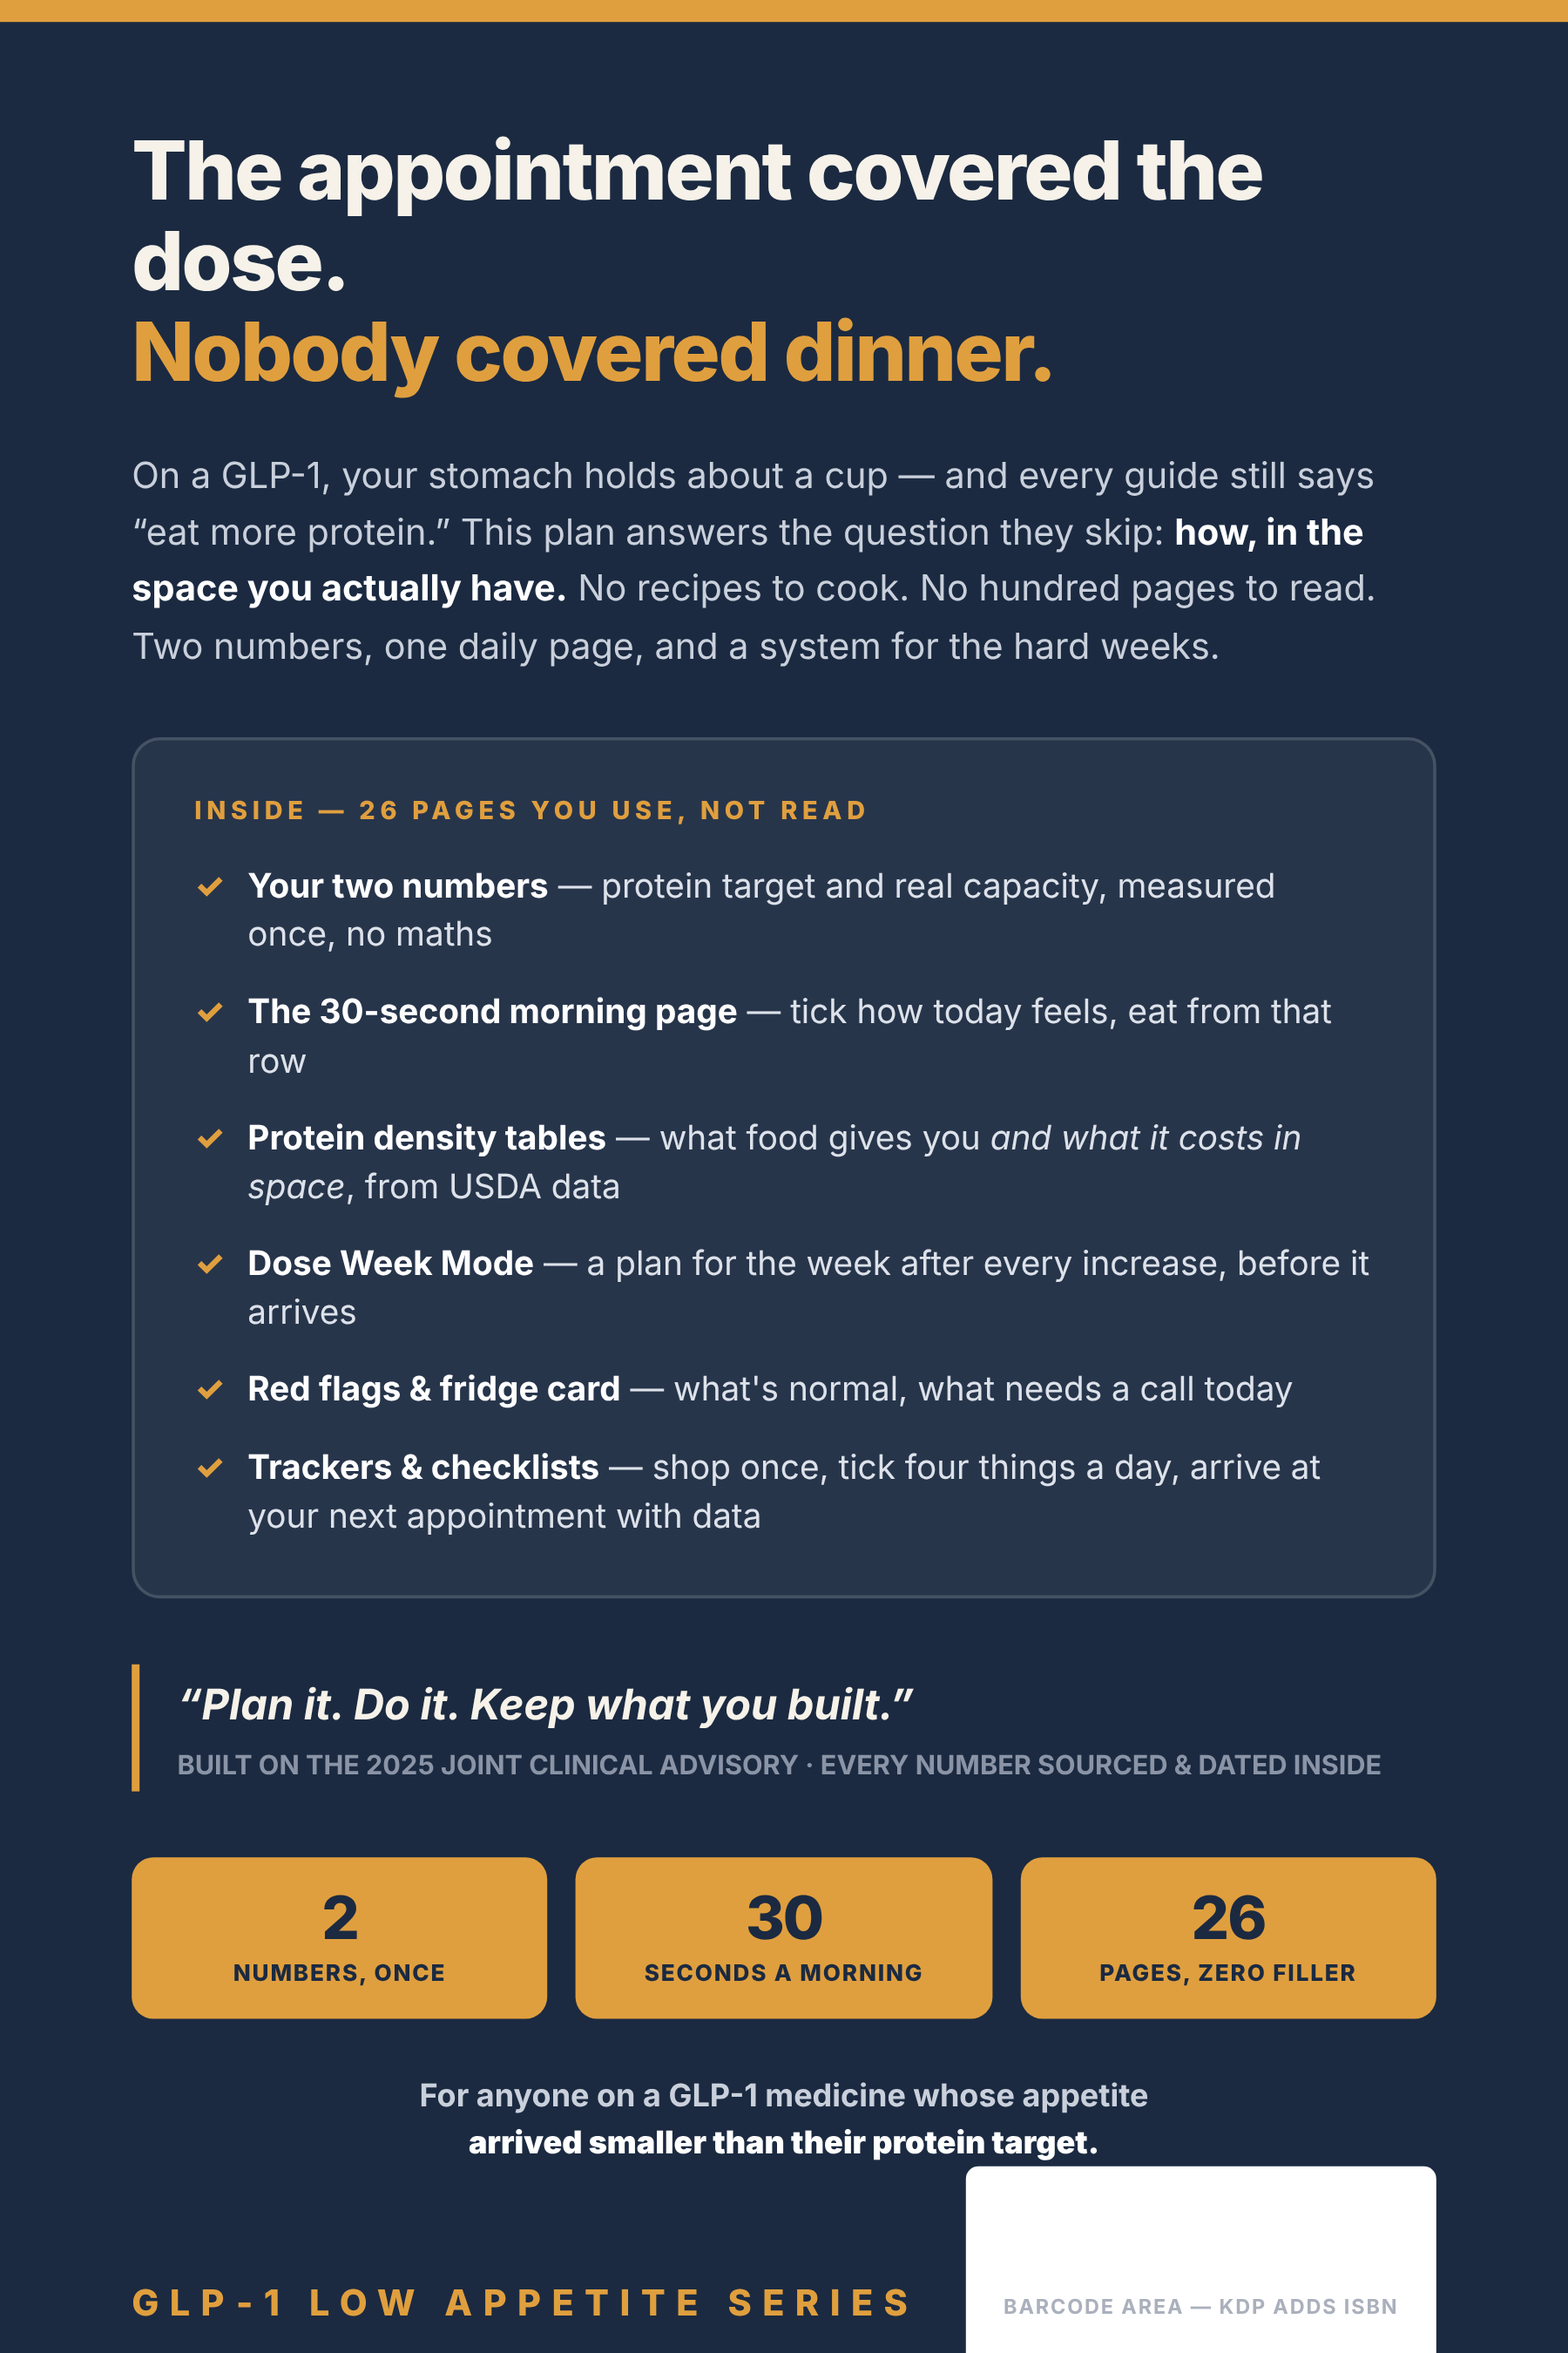
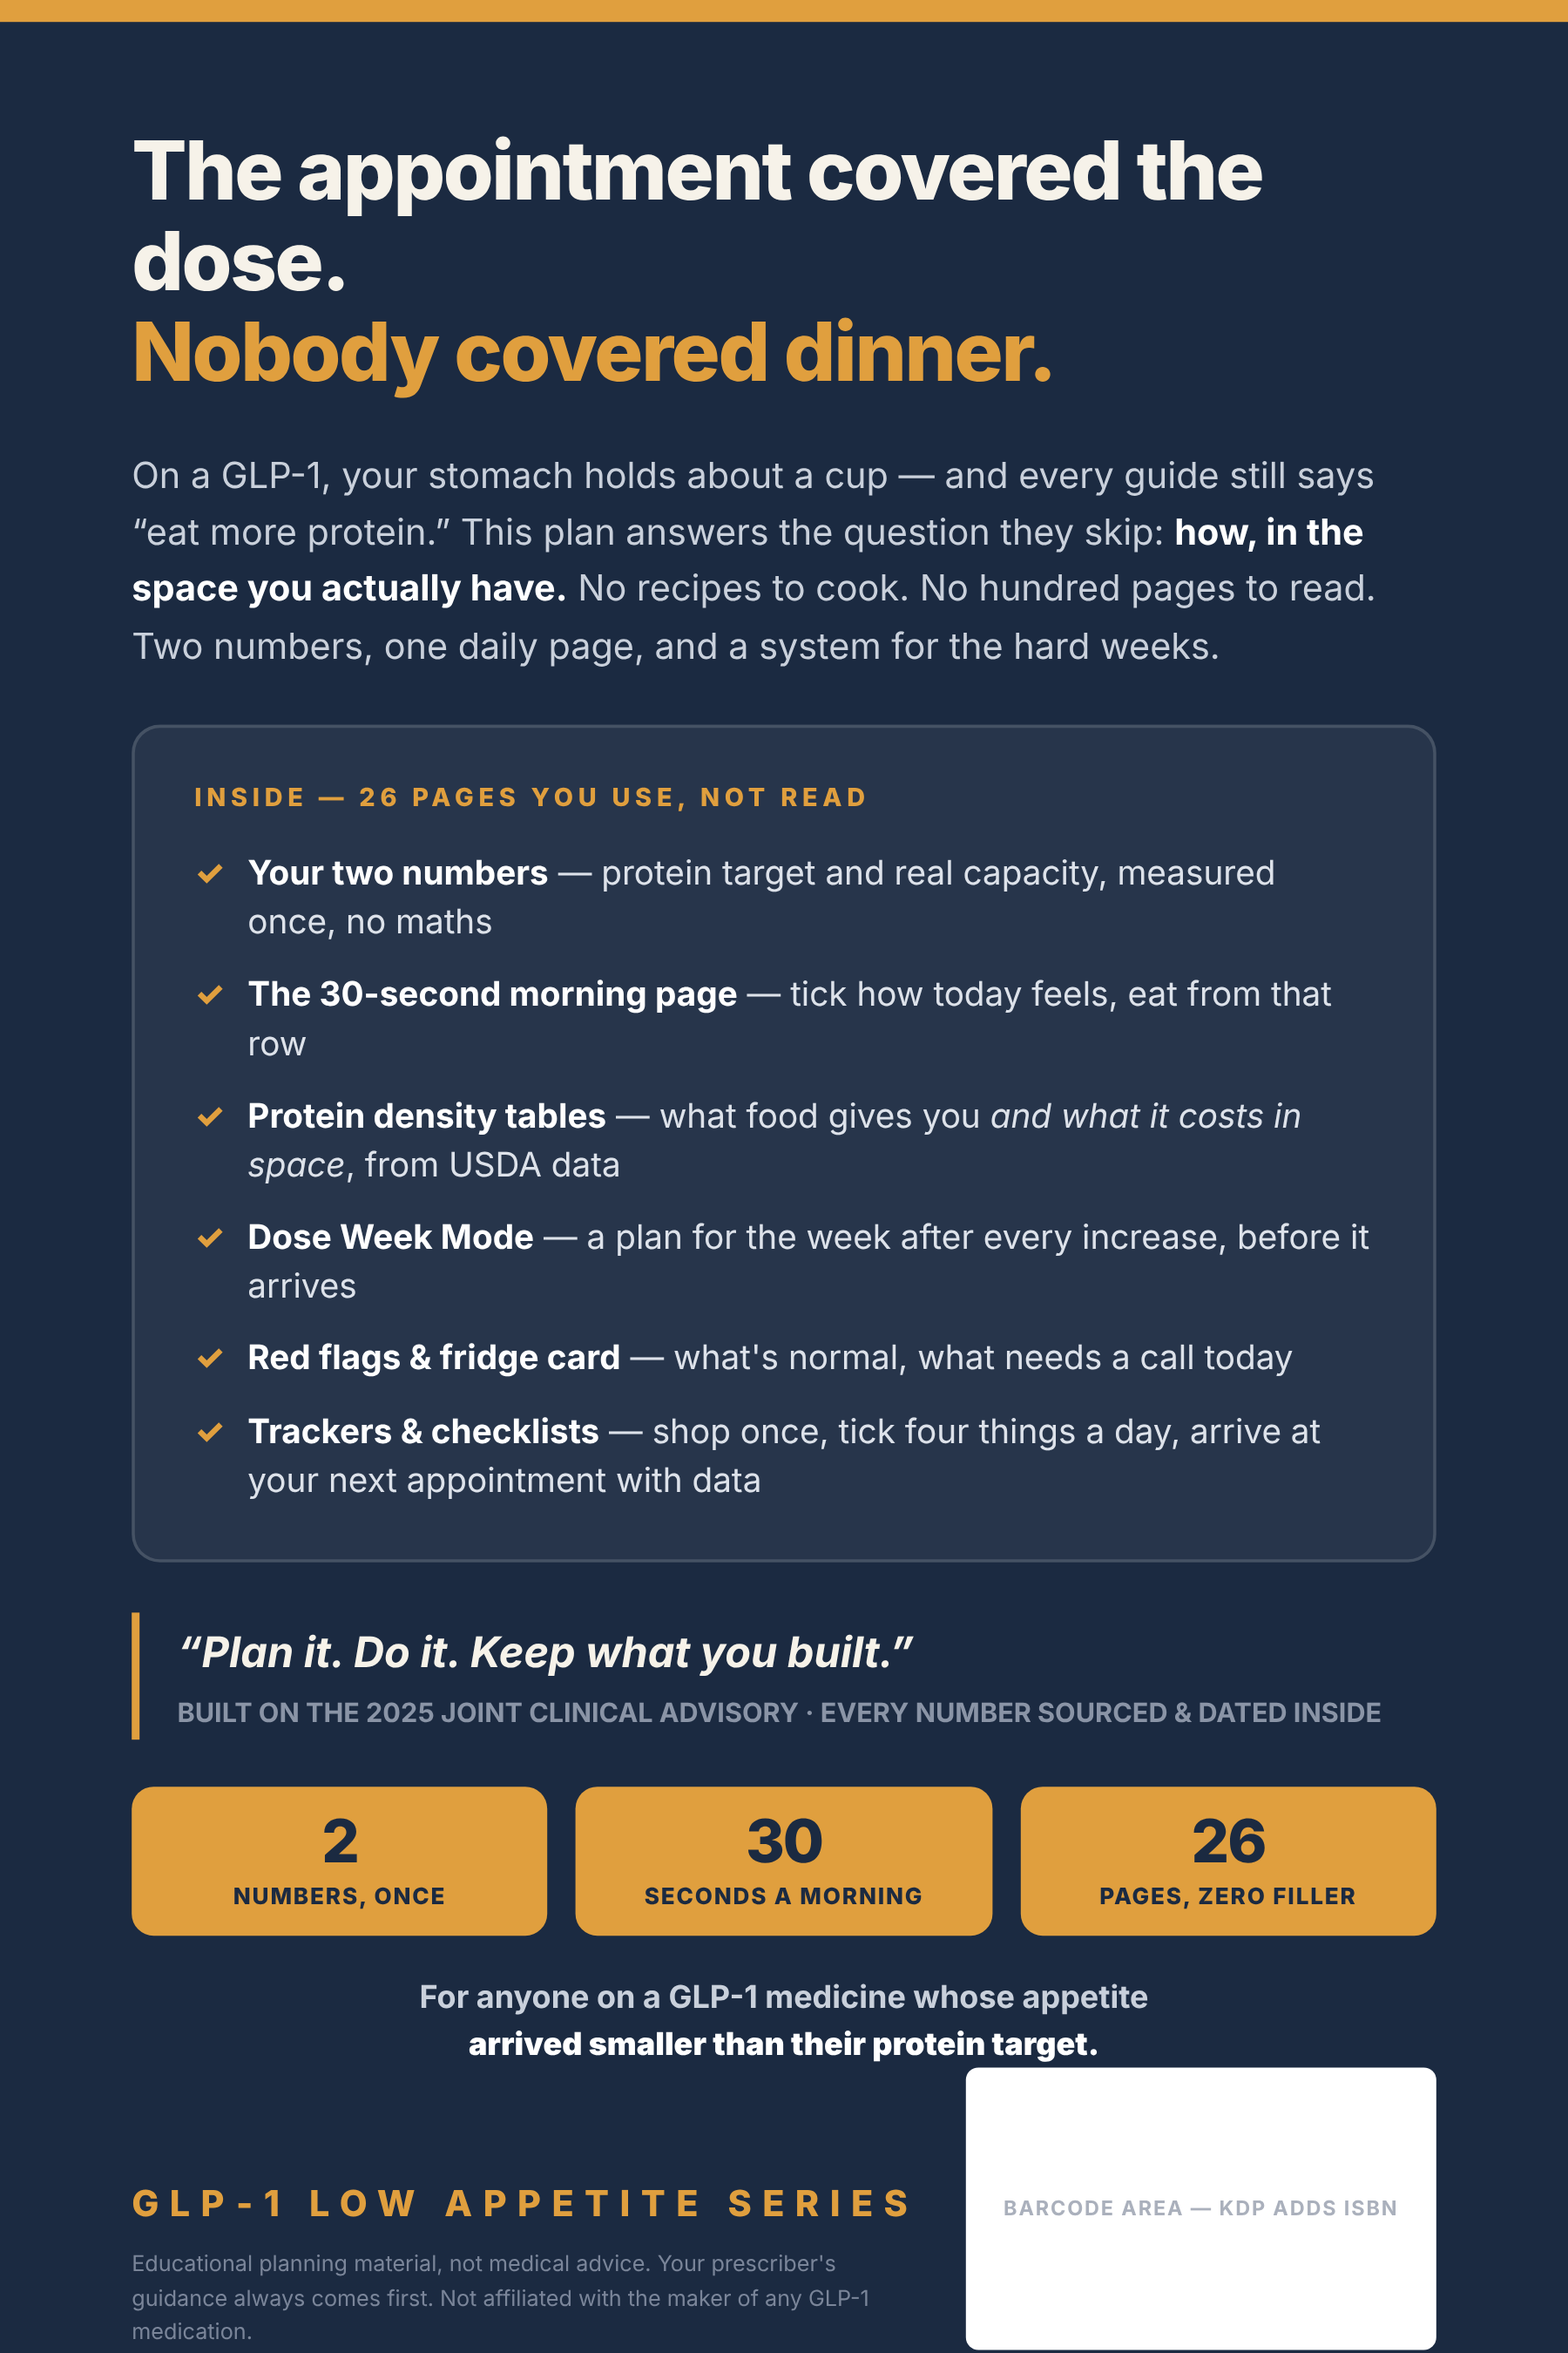
Fix back cover overflow
Claude-Session: https://claude.ai/code/session_015udXMA1KmBFHqrMq4qJ4ZP

diff --git a/product/listing/cover-back.html b/product/listing/cover-back.html
@@ -13,23 +13,23 @@
   .lede{ font-size:23px; line-height:1.58; color:#C9D0DB; margin-top:30px; }
   .lede b{ color:#fff; font-weight:700; }
 
-  .box{ margin-top:40px; background:rgba(255,255,255,.055); border:2px solid rgba(255,255,255,.14);
+  .box{ margin-top:32px; background:rgba(255,255,255,.055); border:2px solid rgba(255,255,255,.14);
         border-radius:18px; padding:34px 38px; }
   .bt{ font-size:16px; font-weight:800; letter-spacing:.2em; color:var(--amber); margin-bottom:24px; }
   .it{ display:flex; gap:15px; font-size:21.5px; line-height:1.45; color:#DDE2EA; }
-  .it + .it{ margin-top:18px; }
+  .it + .it{ margin-top:15px; }
   .mk{ color:var(--amber); font-weight:800; flex:none; }
   .it b{ color:#fff; font-weight:700; }
 
-  .quote{ margin-top:42px; border-left:5px solid var(--amber); padding:6px 0 6px 24px; }
+  .quote{ margin-top:32px; border-left:5px solid var(--amber); padding:6px 0 6px 24px; }
   .q1{ font-size:27px; font-weight:700; font-style:italic; line-height:1.45; color:var(--cream); }
   .q2{ font-size:17px; font-weight:700; color:#8A94A6; margin-top:10px; font-style:normal; }
 
-    .stats{ margin-top:42px; display:flex; gap:18px; }
-  .st{ flex:1; background:var(--amber); color:var(--navy); border-radius:14px; padding:20px 14px; text-align:center; }
+    .stats{ margin-top:30px; display:flex; gap:18px; }
+  .st{ flex:1; background:var(--amber); color:var(--navy); border-radius:14px; padding:16px 14px; text-align:center; }
   .st .n{ font-size:38px; font-weight:800; letter-spacing:-.03em; line-height:1; }
   .st .l{ font-size:14.5px; font-weight:800; letter-spacing:.07em; margin-top:8px; }
-  .who{ margin-top:34px; text-align:center; font-size:20px; font-weight:700; color:#C9D0DB; line-height:1.5; }
+  .who{ margin-top:24px; text-align:center; font-size:20px; font-weight:700; color:#C9D0DB; line-height:1.5; }
   .who b{ color:#fff; }
   .bottom{ margin-top:auto; display:flex; align-items:flex-end; gap:30px; }
   .bl{ flex:1; }
